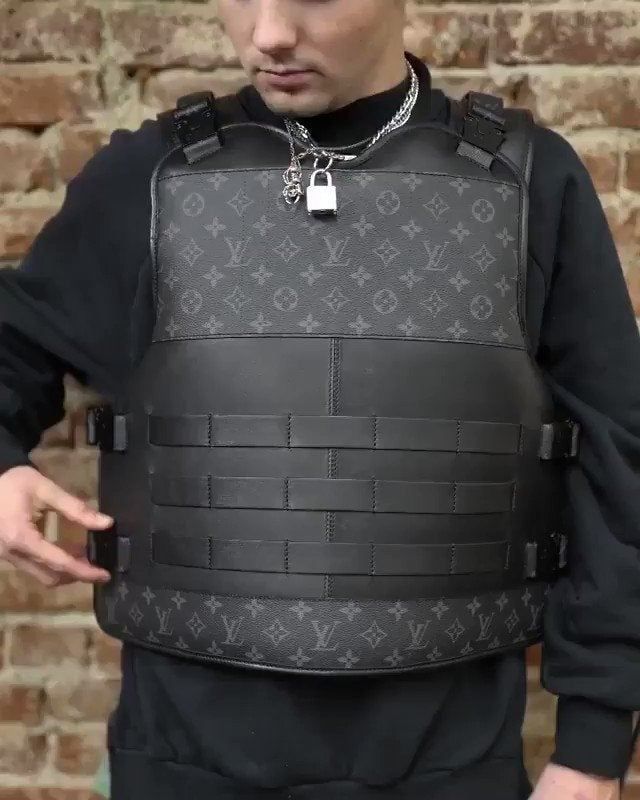
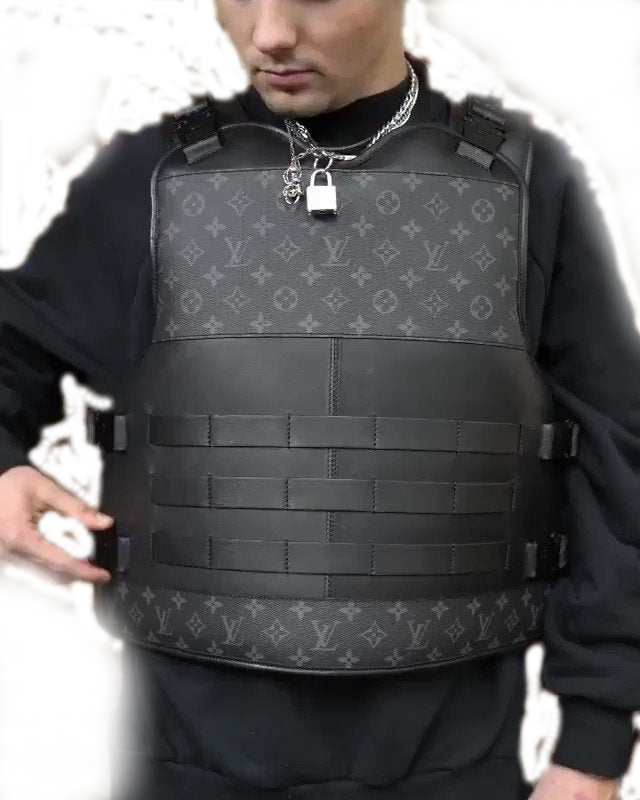
Added a info page

diff --git a/info.html b/info.html
@@ -5,21 +5,34 @@
     <meta name="viewport" content="width=device-width, initial-scale=1.0">
     <meta http-equiv="X-UA-Compatible" content="ie=edge">
     <title>Document</title>
-    <link href="style.css" rel="stylesheet">
-    <script src="home.js" defer></script>
+    <link href="https://fonts.googleapis.com/css?family=Fjalla+One&display=swap" rel="stylesheet">
+    <link href="info.css" rel="stylesheet">
+    <script src="info.js" defer></script>
 </head>
 <body>
-    <h1>Nice Dude Co</h1>
-        <nav class="horizontal">
-            <a href="home.html">Home</a>
-            <a href="reviews.html">Reviews</a>
-            <a href="timer.html">Timer</a>
-            <a href="info.html">Info</a>
-            <a href="gallery.html">Gallery</a>
-            <a href="location.html">Location</a>
-            <a href=".html"></a>
-            <a href=".html"></a>
+    <h1 class="title">Nice Dude Co</h1>
+    <nav class="horizontal">
+            <ul>
+                <li><a id="action" href="home.html">Home</a></li>
+                <li><a href="reviews.html">Reviews</a></li>
+                <li><a href="timer.html">Timer</a></li>
+                <li><a href="info.html">Info</a></li>
+                <li><a href="gallery.html">Gallery</a></li>
+                <li><a href="location.html">Location</a></li>
+            </ul>
         </nav>
     </div>
+    <header id="header">
+        <h1>Info</h1>
+        <p>
+            The Nice Dude Co Vest is an outer tactical vest used by military and law enforcement agencies at home and abroad due to its efficient design which maximize the operator’s comfort and mobility without sacrificing protection. Our ballistic tactical assault vest is the complete package as a result of its lightweight Kevlar design combined with features such as fully adjustable padded shoulders straps, interior mesh lining for maximum air circulation, and 360 degree coverage for increased load bearing support. Not to mention, this thing deflects the bullet back at the shooter! If you’re looking for a vest that not only protects you, but kills the person shooting at you as well, you’ve come to the right place.
+        </p>
+        <p>
+            In addition to our basic vest, we offer vest for those who are looking for a more fashionable approach to protection. We partnered with companies ranging from Louis Vuitton to Off-White. We have collabed with multiple companies to fit the more casual and fashionable consumer, you won’t find a more elegant vest anywhere else, Guaranteed.
+        </p>
+        <p>
+            Lastly, we offer a custom vest. These have all the same features of our basic vest but they allow you to design them to your liking. You can get them custom embroidered with anything you want it to say, such as your name or nickname. These vest will make you stand out among a crowd, Guaranteed!
+        </p>
+    </header>
 </body>
 </html>

diff --git a/info.css b/info.css
@@ -1,0 +1,67 @@
+ul{
+    list-style-type: none;
+    margin: 0;
+    padding: 0;
+    overflow: auto;
+    background-color: rgb(43, 43, 43);
+}
+  li{
+    float: left;
+    border-right: 1px solid rgb(196, 196, 196);
+}
+  li a{
+    display: block;
+    color: white;
+    text-align: center;
+    padding: 11px 65px;
+    text-decoration: none;
+}
+  li a:hover{
+    background-color: rgb(20, 20, 20);
+}
+  li:last-child{
+    border-right: none;
+}
+
+#header {
+    max-width: 960px;
+    margin: auto;
+    padding: 10px;
+    text-align: center;
+  }
+  
+h1{
+    text-align: center;
+    animation-name: heading;
+    animation-duration: 3s;
+    animation-fill-mode: forwards;
+    animation-timing-function: ease-in-out;
+}
+  
+@keyframes heading{
+    0% {transform: translateY(-100px)}
+}
+  
+p{
+    line-height: 1.2;
+    text-align: left;
+    animation-name: paragraph;
+    animation-duration: 3s;
+    animation-fill-mode: forwards;
+    animation-timing-function: ease-in-out;
+}
+  
+@keyframes paragraph{
+    0% {transform: translateX(-1000px)}
+}
+html{
+    font-family: 'Fjalla One', sans-serif;   
+    background-image: url(steel.png);
+
+}
+header{
+    background: white;
+}
+h1.title{
+    color: white;
+}

diff --git a/gallery.css b/gallery.css
@@ -70,3 +70,6 @@ img.bape{
     font-size: 75px;
     border-radius: 10px;
   }
+img.lv{
+  background-color: white;
+}
